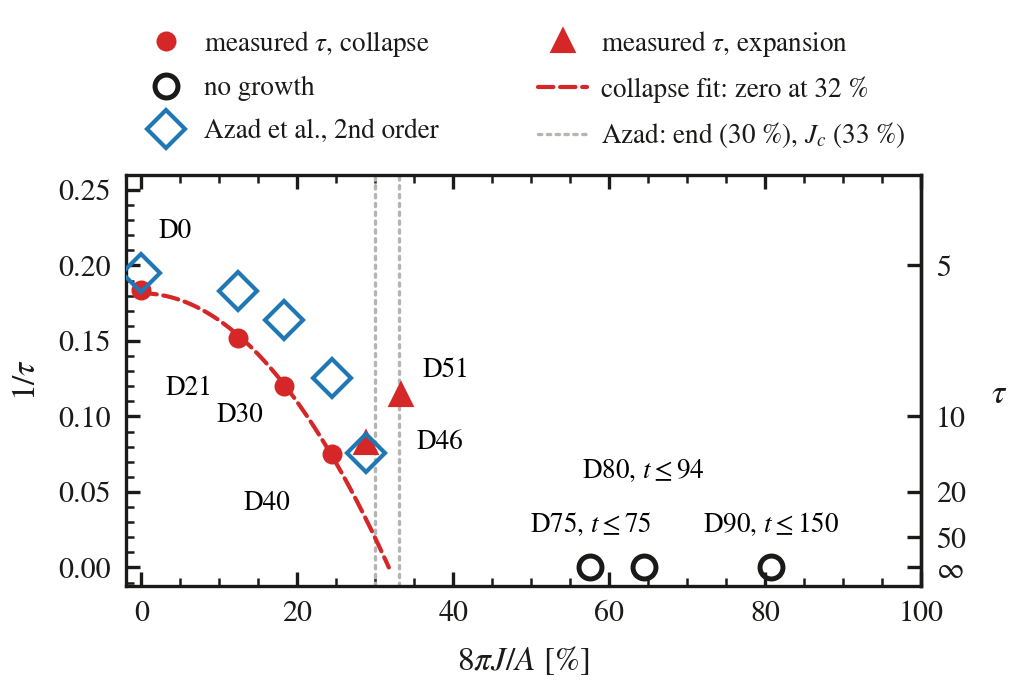
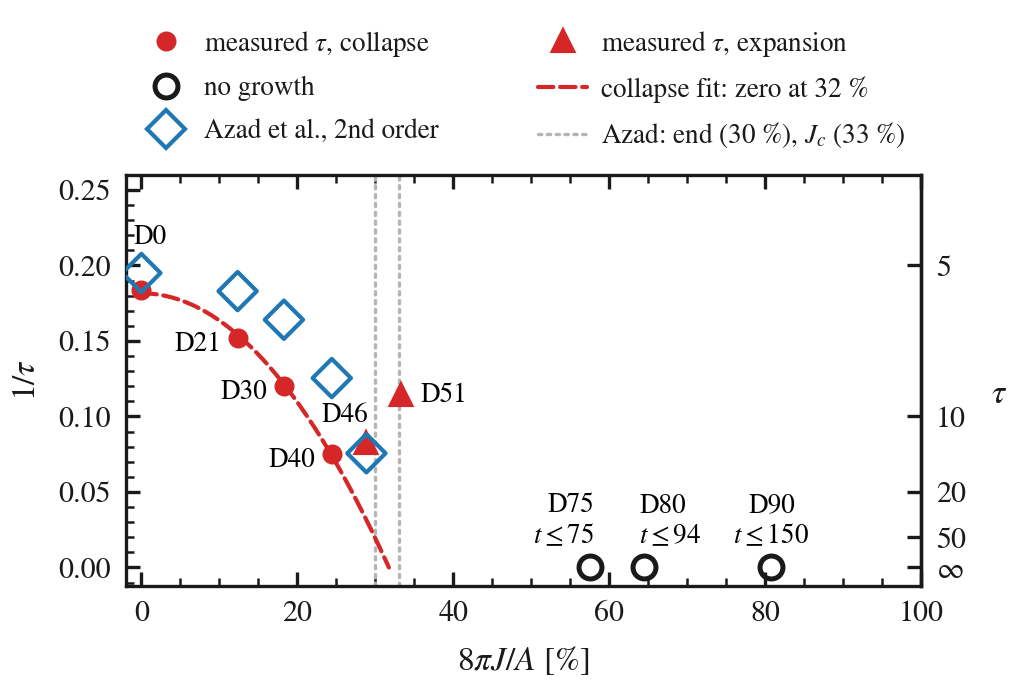
Spinning instability curve: each rung's tag beside its marker
The diagonal 6-12 pt offsets left the tags floating between rungs. Now
the collapse dots carry theirs on the left under the fit, D0 above its
diamond, D46 above-left (the 30 % rule is 2 pt to its right), D51 on the
right; the stable rungs' tags stand on their circles in two lines (name,
window), D75's hanging left and D80's right. The Azad diamonds are a
scatter, so the label audit no longer reads the undrawn segments between
them as a line. Label audit clean.

diff --git a/grteclyn-wrapper/src/grteclyn_wrapper/visualisation/spinning_wormhole/plot_instability_curve.py b/grteclyn-wrapper/src/grteclyn_wrapper/visualisation/spinning_wormhole/plot_instability_curve.py
@@ -106,16 +106,22 @@ AZAD_W0, AZAD_DW2, ETA0 = 0.390, 0.384, 2.0
 AZAD_CONJECTURE = 30.0    # their conjectured end of the instability (% of extremal)
 BAND = (2e-3, 1e-2)       # the deficit band every rung's tau is fitted over
 WIDE_BANDS = ((3e-3, 3e-2), (1e-2, 1e-1))   # printed for comparison only
-# Per-rung tag offsets (points) and anchors: above-right where the falling fit
-# leaves that side free, below-left where a tag there would reach the rules.
+# Per-rung tag offsets (points) and anchors, each tag against its own marker
+# (2026-10-21: the diagonal offsets left the tags floating between rungs).  The
+# collapse dots take theirs on the left, under the falling fit; D0 above its
+# diamond, the spine being on its left; D46 above-left, the 30 % rule 2 pt to its
+# right.
 TAG_SIDES = {
-    "D0": (4, 11, "left", "bottom"),
-    "D21": (-6, -9, "right", "top"),
-    "D30": (-5, -4, "right", "top"),
-    "D40": (-10, -9, "right", "top"),
-    "D46": (12, 0, "left", "center"),
-    # the stable rungs: D80's tag a row above D75's and D90's, so the three fit
-    "D80": (0, 20, "center", "bottom"),
+    "D0": (-2, 9.5, "left", "bottom"),
+    "D21": (-4, -1.5, "right", "center"),
+    "D30": (-4, -1.5, "right", "center"),
+    "D40": (-4, -1.5, "right", "center"),
+    "D46": (0.5, 3.5, "right", "bottom"),
+    "D51": (4.5, 0, "left", "center"),
+    # the stable rungs sit 12 pt apart: D75's tag hangs left, D80's right
+    "D75": (1, 4.5, "right", "bottom"),
+    "D80": (-1, 4.5, "left", "bottom"),
+    "D90": (0, 4.5, "center", "bottom"),
 }
 SPIN_BLUE, SPIN_RED = "#1f77b4", "#d62728"
 PALETTES = {
@@ -269,8 +275,10 @@ def draw(points, pal, jc_frac) -> None:
     az = [(p["frac"], azad_rate(p["j"])) for p in drawn if azad_rate(p["j"]) > 0]
     if az:
         # Open diamonds over smaller dots: where a rung matches Azad the dot
-        # shows inside its diamond instead of hiding it.
-        ax.plot(*zip(*az), "D", ms=6.5, mfc="none", mec=pal["azad"], mew=1.0, zorder=5)
+        # shows inside its diamond instead of hiding it.  A scatter, so the label
+        # audit sees the diamonds and not the undrawn segments between them.
+        ax.scatter(*zip(*az), marker="D", s=6.5 ** 2, facecolors="none",
+                   edgecolors=pal["azad"], linewidths=1.0, zorder=5)
     fit = fit_zero(drawn)
     x0 = None
     if fit is not None:
@@ -285,7 +293,7 @@ def draw(points, pal, jc_frac) -> None:
             ax.plot(p["frac"], rate(p["tau"]), "^" if p["branch"] == "inflates" else "o",
                     ms=4.6 if p["branch"] == "inflates" else 3.8,
                     color=pal["measured"], zorder=4)
-            dx, dy, ha, va = TAG_SIDES.get(p["label"], (5, 3, "left", "bottom"))
+            dx, dy, ha, va = TAG_SIDES.get(p["label"], (4.5, 0, "left", "center"))
             ax.annotate(p["label"],
                         (p["frac"], rate(p["tau"])),
                         textcoords="offset points", xytext=(dx, dy), fontsize=6.5,
@@ -293,10 +301,10 @@ def draw(points, pal, jc_frac) -> None:
         else:
             ax.plot(p["frac"], 0.0, "o", ms=5.5, mfc="none", mec=pal["stable"],
                     mew=1.2, zorder=4)
-            dx, dy, ha, va = TAG_SIDES.get(p["label"], (0, 7, "center", "bottom"))
-            ax.annotate(f"{p['label']}, $t\\leq{p['t_end']:.0f}$",
+            dx, dy, ha, va = TAG_SIDES.get(p["label"], (0, 4.5, "center", "bottom"))
+            ax.annotate(f"{p['label']}\n$t\\leq{p['t_end']:.0f}$",
                         (p["frac"], 0.0), textcoords="offset points",
-                        xytext=(dx, dy), fontsize=6.5, ha=ha, va=va)
+                        xytext=(dx, dy), fontsize=6.5, ha=ha, va=va, multialignment=ha)
     ax.set_xlim(-2.0, 100.0)   # the static rung sits at 0: keep its marker whole
     ax.set_ylim(-0.012, 0.26)
     ax.set_xlabel(r"$8\pi J/A$ [%]")
